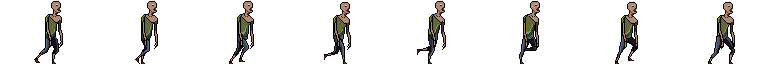
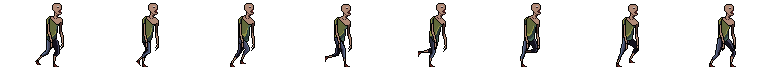
enemy_good_walk

diff --git a/class_enemy.py b/class_enemy.py
@@ -38,9 +38,11 @@ class Enemy(pygame.sprite.Sprite):
         self.time = 0
         self.mask = pygame.mask.from_surface(self.image)
         self.cnt_attacks = 0
+        self.distance = 0
+        self.walk_distance = 250
 
     def cut_sheet(self, frames, sheet, columns, rows):
-        k = 1
+        k = 0.9
         sheet = pygame.transform.scale(sheet, (int(sheet.get_width() * k), int(sheet.get_height() * k)))
         self.rect = pygame.Rect(0, 0, sheet.get_width() // columns,
                                 sheet.get_height() // rows)
@@ -56,19 +58,20 @@ class Enemy(pygame.sprite.Sprite):
         else:
             target_x, target_y = self.player.rect.x, self.player.rect.y
             x, y = self.rect.x, self.rect.y
-            distance = ((target_x - x) ** 2 + (target_y - y) ** 2) ** 0.5
+            self.distance = ((target_x - x) ** 2 + (target_y - y) ** 2) ** 0.5
             self.mask = pygame.mask.from_surface(self.image)
             self.player.mask = pygame.mask.from_surface(self.player.image)
-            if not (pygame.sprite.collide_mask(self, self.player)) and distance <= 200 and self.dead:
+            if not (pygame.sprite.collide_mask(self, self.player)) and self.dead:
                 if not self.walk_check:
                     self.cur_frame = 0
-                self.walk_player()
-                self.follow_player(x, y, target_x, target_y)
+                if self.distance <= self.walk_distance:
+                    self.follow_player(x, y, target_x, target_y)
+                print(self.distance, self.cur_frame)
             if pygame.sprite.collide_mask(self, self.player) and self.dead and self.time == 0:
                 if not self.attack or self.walk_check:
                     self.cur_frame = 0
                 self.fight_player()
-            if (distance >= 200 and self.dead) or (self.dead and self.time != 0):
+            if (self.distance >= self.walk_distance and self.dead) or (self.dead and self.time != 0):
                 if self.walk_check or self.attack:
                     self.cur_frame = 0
                 self.idle_enemy()
@@ -82,36 +85,45 @@ class Enemy(pygame.sprite.Sprite):
     def follow_player(self, x1, y1, x2, y2):
         coords_of_angles = [(x1, y1), (x1 + self.rect.width, y1), (x1 + self.rect.width, y1 + self.rect.height),
                             (x1, y1 + self.rect.height)]
-        if x1 > x2:
+        delta_x, delta_y = abs(x1 - x2), abs(y1 - y2)
+        if x1 > x2 and delta_x > delta_y:
             coords = list(
                 map(lambda x: [(x[0] - self.speed - self.map_check.dx) // self.map_check.tile_size,
                                (x[1] - self.map_check.dy) // self.map_check.height],
                     coords_of_angles))
             if all(self.map_check.is_free(coord) for coord in coords):
-                self.rect.x -= self.speed
-                self.transform = True
-        if x1 < x2:
+                if self.distance <= self.walk_distance:
+                    self.rect.x -= self.speed
+                    self.transform = True
+                    self.walk_player()
+        if x1 < x2 and delta_x > delta_y:
             coords = list(
                 map(lambda x: [(x[0] + self.speed - self.map_check.dx) // self.map_check.tile_size,
                                (x[1] - self.map_check.dy) // self.map_check.height],
                     coords_of_angles))
             if all(self.map_check.is_free(coord) for coord in coords):
-                self.rect.x += self.speed
+                if self.distance <= self.walk_distance:
+                    self.rect.x += self.speed
+                    self.walk_player()
                 self.transform = False
-        if y1 > y2:
+        if y1 > y2 and delta_y > delta_x:
             coords = list(
                 map(lambda x: [(x[0] - self.map_check.dx) // self.map_check.tile_size,
                                (x[1] - self.speed - self.map_check.dy) // self.map_check.height],
                     coords_of_angles))
             if all(self.map_check.is_free(coord) for coord in coords):
-                self.rect.y -= self.speed
-        if y1 < y2:
+                if self.distance <= self.walk_distance:
+                    self.rect.y -= self.speed
+                    self.walk_player()
+        if y1 < y2 and delta_y > delta_x:
             coords = list(
                 map(lambda x: [(x[0] - self.map_check.dx) // self.map_check.tile_size,
                                (x[1] + self.speed - self.map_check.dy) // self.map_check.height],
                     coords_of_angles))
             if all(self.map_check.is_free(coord) for coord in coords):
-                self.rect.y += self.speed
+                if self.distance <= self.walk_distance:
+                    self.rect.y += self.speed
+                    self.walk_player()
 
     def fight_player(self):
         if self.cnt_attacks != 2:
@@ -123,15 +135,16 @@ class Enemy(pygame.sprite.Sprite):
         if self.transform:
             self.image = pygame.transform.flip(self.image, True, False)
         if self.cur_frame == 0:
-            self.cnt_attacks = (self.cnt_attacks + 1) % 3
-            self.player.health -= self.damage
             self.player.hurt_check = True
             if not (self.player.attack or self.player.attack_2):
                 self.player.cur_frame = 0
             if self.cnt_attacks != 2:
+                self.player.health -= self.damage
                 self.time = 25
             else:
+                self.player.health -= self.damage * 2
                 self.time = 50
+            self.cnt_attacks = (self.cnt_attacks + 1) % 3
             self.attack = False
         self.attack = True
         self.walk_check = False
